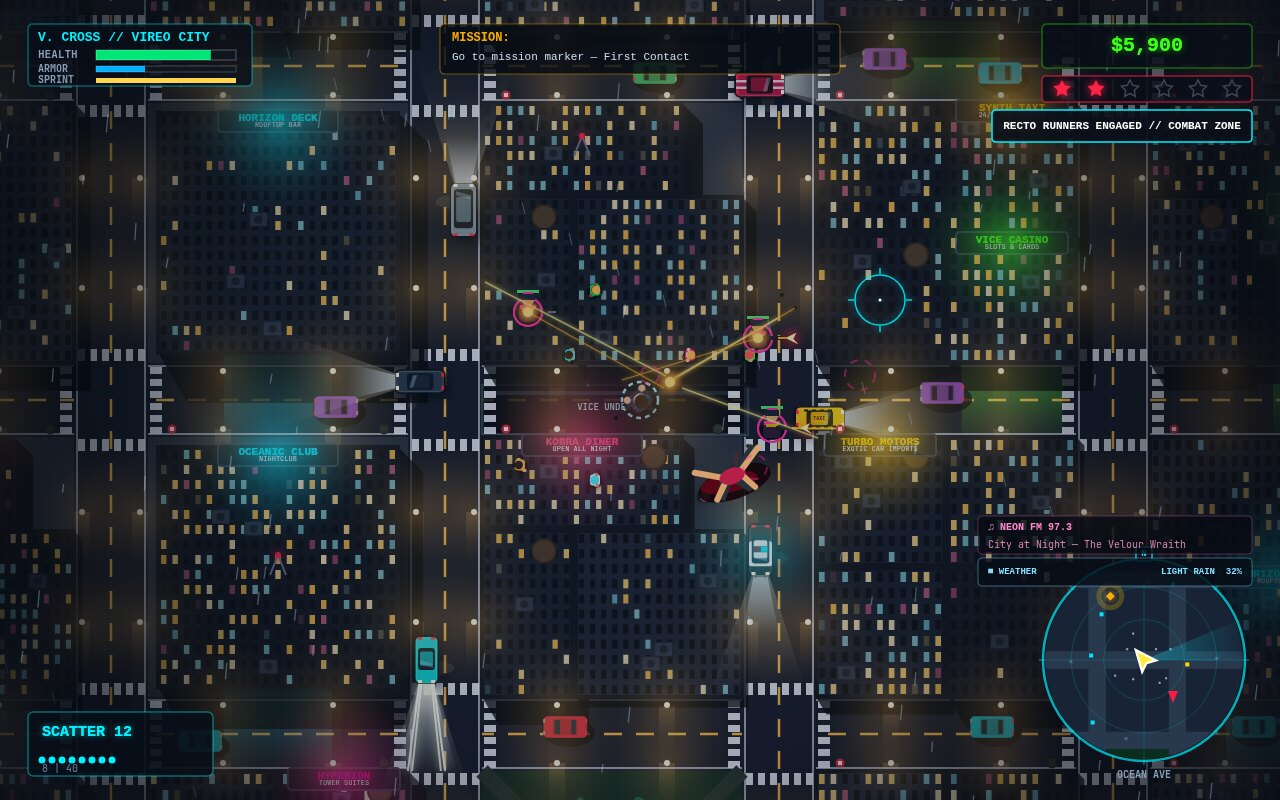
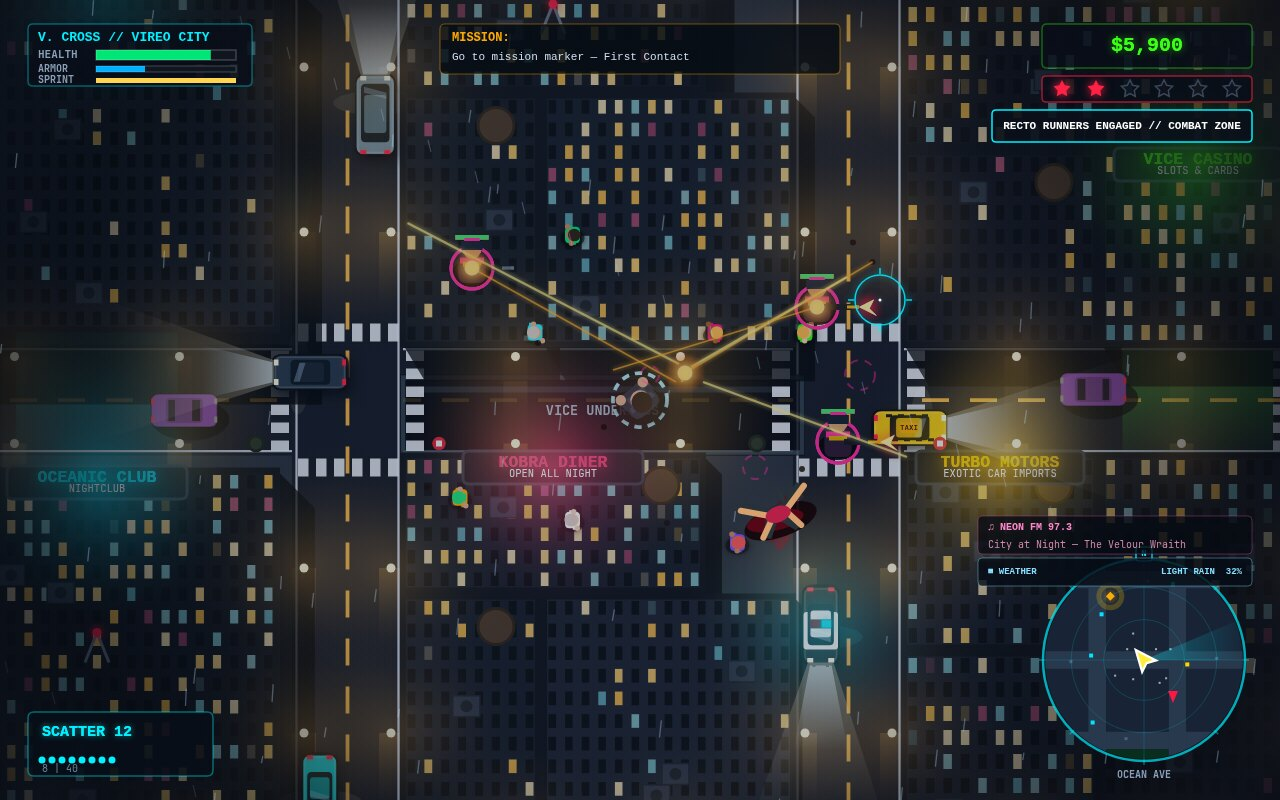
Bring the review shots closer and put witnesses on the cover
The judge sees the cover at 768x480 and the other three at 253x158, so the
three small cells have to carry a readable idea each.

- main.js: the settle step that runs after the single physics frame now
  restores every shot's own camera, not just the chase one. Player.update
  resets the zoom to 1.0 on foot, so the street and combat shots were
  rendering wide (1.0) instead of the 1.55 and 1.50 they ask for.
- main.js: the chase cover now places nine pedestrians with umbrellas on
  the pavement, clear of the HUD panels and the fireballs, so one frame
  shows the city on foot and behind the wheel.
- pedestrians.js: a downed runner lies with a head, splayed limbs and a
  blood pool instead of a bright bar that read as a red cross.

diff --git a/game/src/main.js b/game/src/main.js
@@ -48,6 +48,7 @@
   function setupDeterministicShot(shot, seed) {
     isShotMode = true;
     shotType = shot;
+    var shotCamera = null;
 
     var actualSeed = seed ? parseInt(seed, 10) : 1986;
     if (isNaN(actualSeed)) actualSeed = 1986;
@@ -72,6 +73,7 @@
       VC.player.facing = -Math.PI * 0.72;
       VC.camera.snapTo(fightX, fightY);
       VC.camera.zoom = 1.50;
+      shotCamera = { zoom: 1.50, leadDist: 70 };
       VC.Input.mouse.screenX = 880;
       VC.Input.mouse.screenY = 300;
       gameTime = 6.4;
@@ -118,7 +120,7 @@
           downed.y = fightY + 76;
           downed.downed = true;
           downed.heading = -1.05;
-          downed.shirtColor = '#ef3f7b';
+          downed.shirtColor = '#351d2a';
           downed.pantsColor = '#263238';
         }
       }
@@ -139,6 +141,7 @@
 
       VC.camera.snapTo(spawnX, spawnY);
       VC.camera.zoom = 1.55;
+      shotCamera = { zoom: 1.55, leadDist: 70 };
       VC.Input.mouse.screenX = 720; VC.Input.mouse.screenY = 320;
       gameTime = 3.5;
       if (VC.pedestrians) {
@@ -252,6 +255,33 @@
         flowThree.speed = 188; flowThree.vx = 188; flowThree.lightsOn = true;
         VC.traffic.vehicles.push({ vehicle: flowThree });
       }
+      // Fixed curb-side cover placements keep the crowd visible without
+      // blocking the kestrel or scattering into the road.
+      if (VC.pedestrians) {
+        VC.pedestrians.MAX_PEDESTRIANS = 9;
+        VC.pedestrians.initDeterministic(VC.city, VC.player);
+        if (VC.pedestrians.seedShotCrowd) VC.pedestrians.seedShotCrowd(9, VC.player);
+        var chaseCrowdOffsets = [
+          [-119.72,49.30], [-77.46,-49.30], [84.51,49.30], [56.34,-49.30],
+          [-183.10,-119.72], [-28.17,-105.63], [126.76,-112.68],
+          [-169.01,126.76], [147.89,112.68]
+        ];
+        for (var ci = 0; ci < VC.pedestrians.pedestrians.length && ci < chaseCrowdOffsets.length; ci++) {
+          var crowdPed = VC.pedestrians.pedestrians[ci];
+          crowdPed.x = chaseX + chaseCrowdOffsets[ci][0];
+          crowdPed.y = chaseY + chaseCrowdOffsets[ci][1];
+          crowdPed.hasUmbrella = ci === 1 || ci === 3 || ci === 5 || ci === 7;
+          crowdPed.umbrellaColor = ci === 1 ? '#ffcc44' : (ci === 3 ? '#00f0ff' : (ci === 5 ? '#ff4fa3' : '#ff8c42'));
+          crowdPed.shirtColor = ci % 3 === 0 ? '#ffd166' : (ci % 3 === 1 ? '#00f0c8' : '#ff5d8f');
+          if (ci === 2 || ci === 5) {
+            crowdPed.state = 'fleeing';
+            crowdPed.stateTimer = 4.0;
+            crowdPed.heading = ci === 2 ? Math.PI : 0;
+          } else {
+            crowdPed.heading = ci % 2 ? Math.PI : 0.1;
+          }
+        }
+      }
       // Three still-frame fireballs on a left-up to right-down diagonal.
       // No blast falls inside 120px of the player, and two are beyond 150px.
       if (VC.spawnExplosion) {
@@ -273,6 +303,7 @@
       if (VC.hud && VC.hud.clearToasts) VC.hud.clearToasts();
 
       VC.camera.snapTo(chaseX - 10, chaseY - 28);
+      shotCamera = { zoom: 1.42, leadDist: 145 };
       VC.Input.mouse.screenX = 640; VC.Input.mouse.screenY = 400;
       gameTime = 5.5;
       if (VC.hud) VC.hud.toast('INTERCEPTOR UNIT 7 — ALL UNITS PURSUE', 4.0);
@@ -316,8 +347,12 @@
       VC.player.vx = 240;
       VC.player.vy = 0;
       VC.player.facing = 0.1;
-      VC.camera.zoom = 1.42;
-      VC.camera.leadDist = 145;
+    }
+    // Restore the requested camera only after the settle update has run,
+    // since Player.update resets zoom and lead distance for vehicle/on-foot branches.
+    if (shotCamera) {
+      VC.camera.zoom = shotCamera.zoom;
+      VC.camera.leadDist = shotCamera.leadDist;
     }
   }
 

diff --git a/game/src/pedestrians.js b/game/src/pedestrians.js
@@ -264,42 +264,42 @@
 
     if (this.downed) {
       ctx.rotate(this.heading || -1);
-      ctx.fillStyle = 'rgba(0,0,0,0.55)';
+      ctx.fillStyle = 'rgba(76,8,20,0.55)';
       ctx.beginPath();
-      ctx.ellipse(0, 5, 16, 7, 0, 0, Math.PI * 2);
+      ctx.ellipse(-1, 6, 15, 6, -0.12, 0, Math.PI * 2);
       ctx.fill();
-      ctx.fillStyle = 'rgba(76,10,26,0.88)';
+      ctx.fillStyle = 'rgba(98,12,32,0.82)';
       ctx.beginPath();
-      ctx.ellipse(-1, 2, 23, 9, 0.12, 0, Math.PI * 2);
+      ctx.ellipse(-2, 3, 17, 7, -0.12, 0, Math.PI * 2);
       ctx.fill();
       ctx.fillStyle = '#351d2a';
       ctx.beginPath();
-      ctx.moveTo(-9, -5);
-      ctx.lineTo(12, -4);
-      ctx.lineTo(17, 5);
-      ctx.lineTo(-12, 7);
-      ctx.closePath();
+      ctx.ellipse(1, 0, 10, 4, -0.08, 0, Math.PI * 2);
       ctx.fill();
-      ctx.strokeStyle = '#4a2633';
-      ctx.lineWidth = 4;
+      ctx.strokeStyle = '#35202a';
+      ctx.lineWidth = 2.5;
       ctx.lineCap = 'round';
       ctx.beginPath();
-      ctx.moveTo(-7, 0);
-      ctx.lineTo(-20, -10);
-      ctx.moveTo(8, 1);
-      ctx.lineTo(22, -8);
-      ctx.moveTo(-8, 6);
-      ctx.lineTo(-20, 15);
-      ctx.moveTo(9, 6);
-      ctx.lineTo(21, 16);
+      ctx.moveTo(-7, -1);
+      ctx.lineTo(-18, -8);
+      ctx.moveTo(7, 1);
+      ctx.lineTo(18, 8);
       ctx.stroke();
-      ctx.fillStyle = '#21151a';
+      ctx.strokeStyle = '#263238';
+      ctx.lineWidth = 3;
       ctx.beginPath();
-      ctx.arc(-14, 0, 5, 0, Math.PI * 2);
+      ctx.moveTo(-5, 3);
+      ctx.lineTo(-16, 11);
+      ctx.moveTo(6, 3);
+      ctx.lineTo(15, -9);
+      ctx.stroke();
+      ctx.fillStyle = '#181015';
+      ctx.beginPath();
+      ctx.arc(-12, -2, 4.2, 0, Math.PI * 2);
       ctx.fill();
       ctx.fillStyle = '#d4a070';
       ctx.beginPath();
-      ctx.arc(-16, -1, 4.1, 0, Math.PI * 2);
+      ctx.arc(-13, -1, 3.3, 0, Math.PI * 2);
       ctx.fill();
       ctx.fillStyle = 'rgba(112,17,38,0.78)';
       ctx.beginPath();
